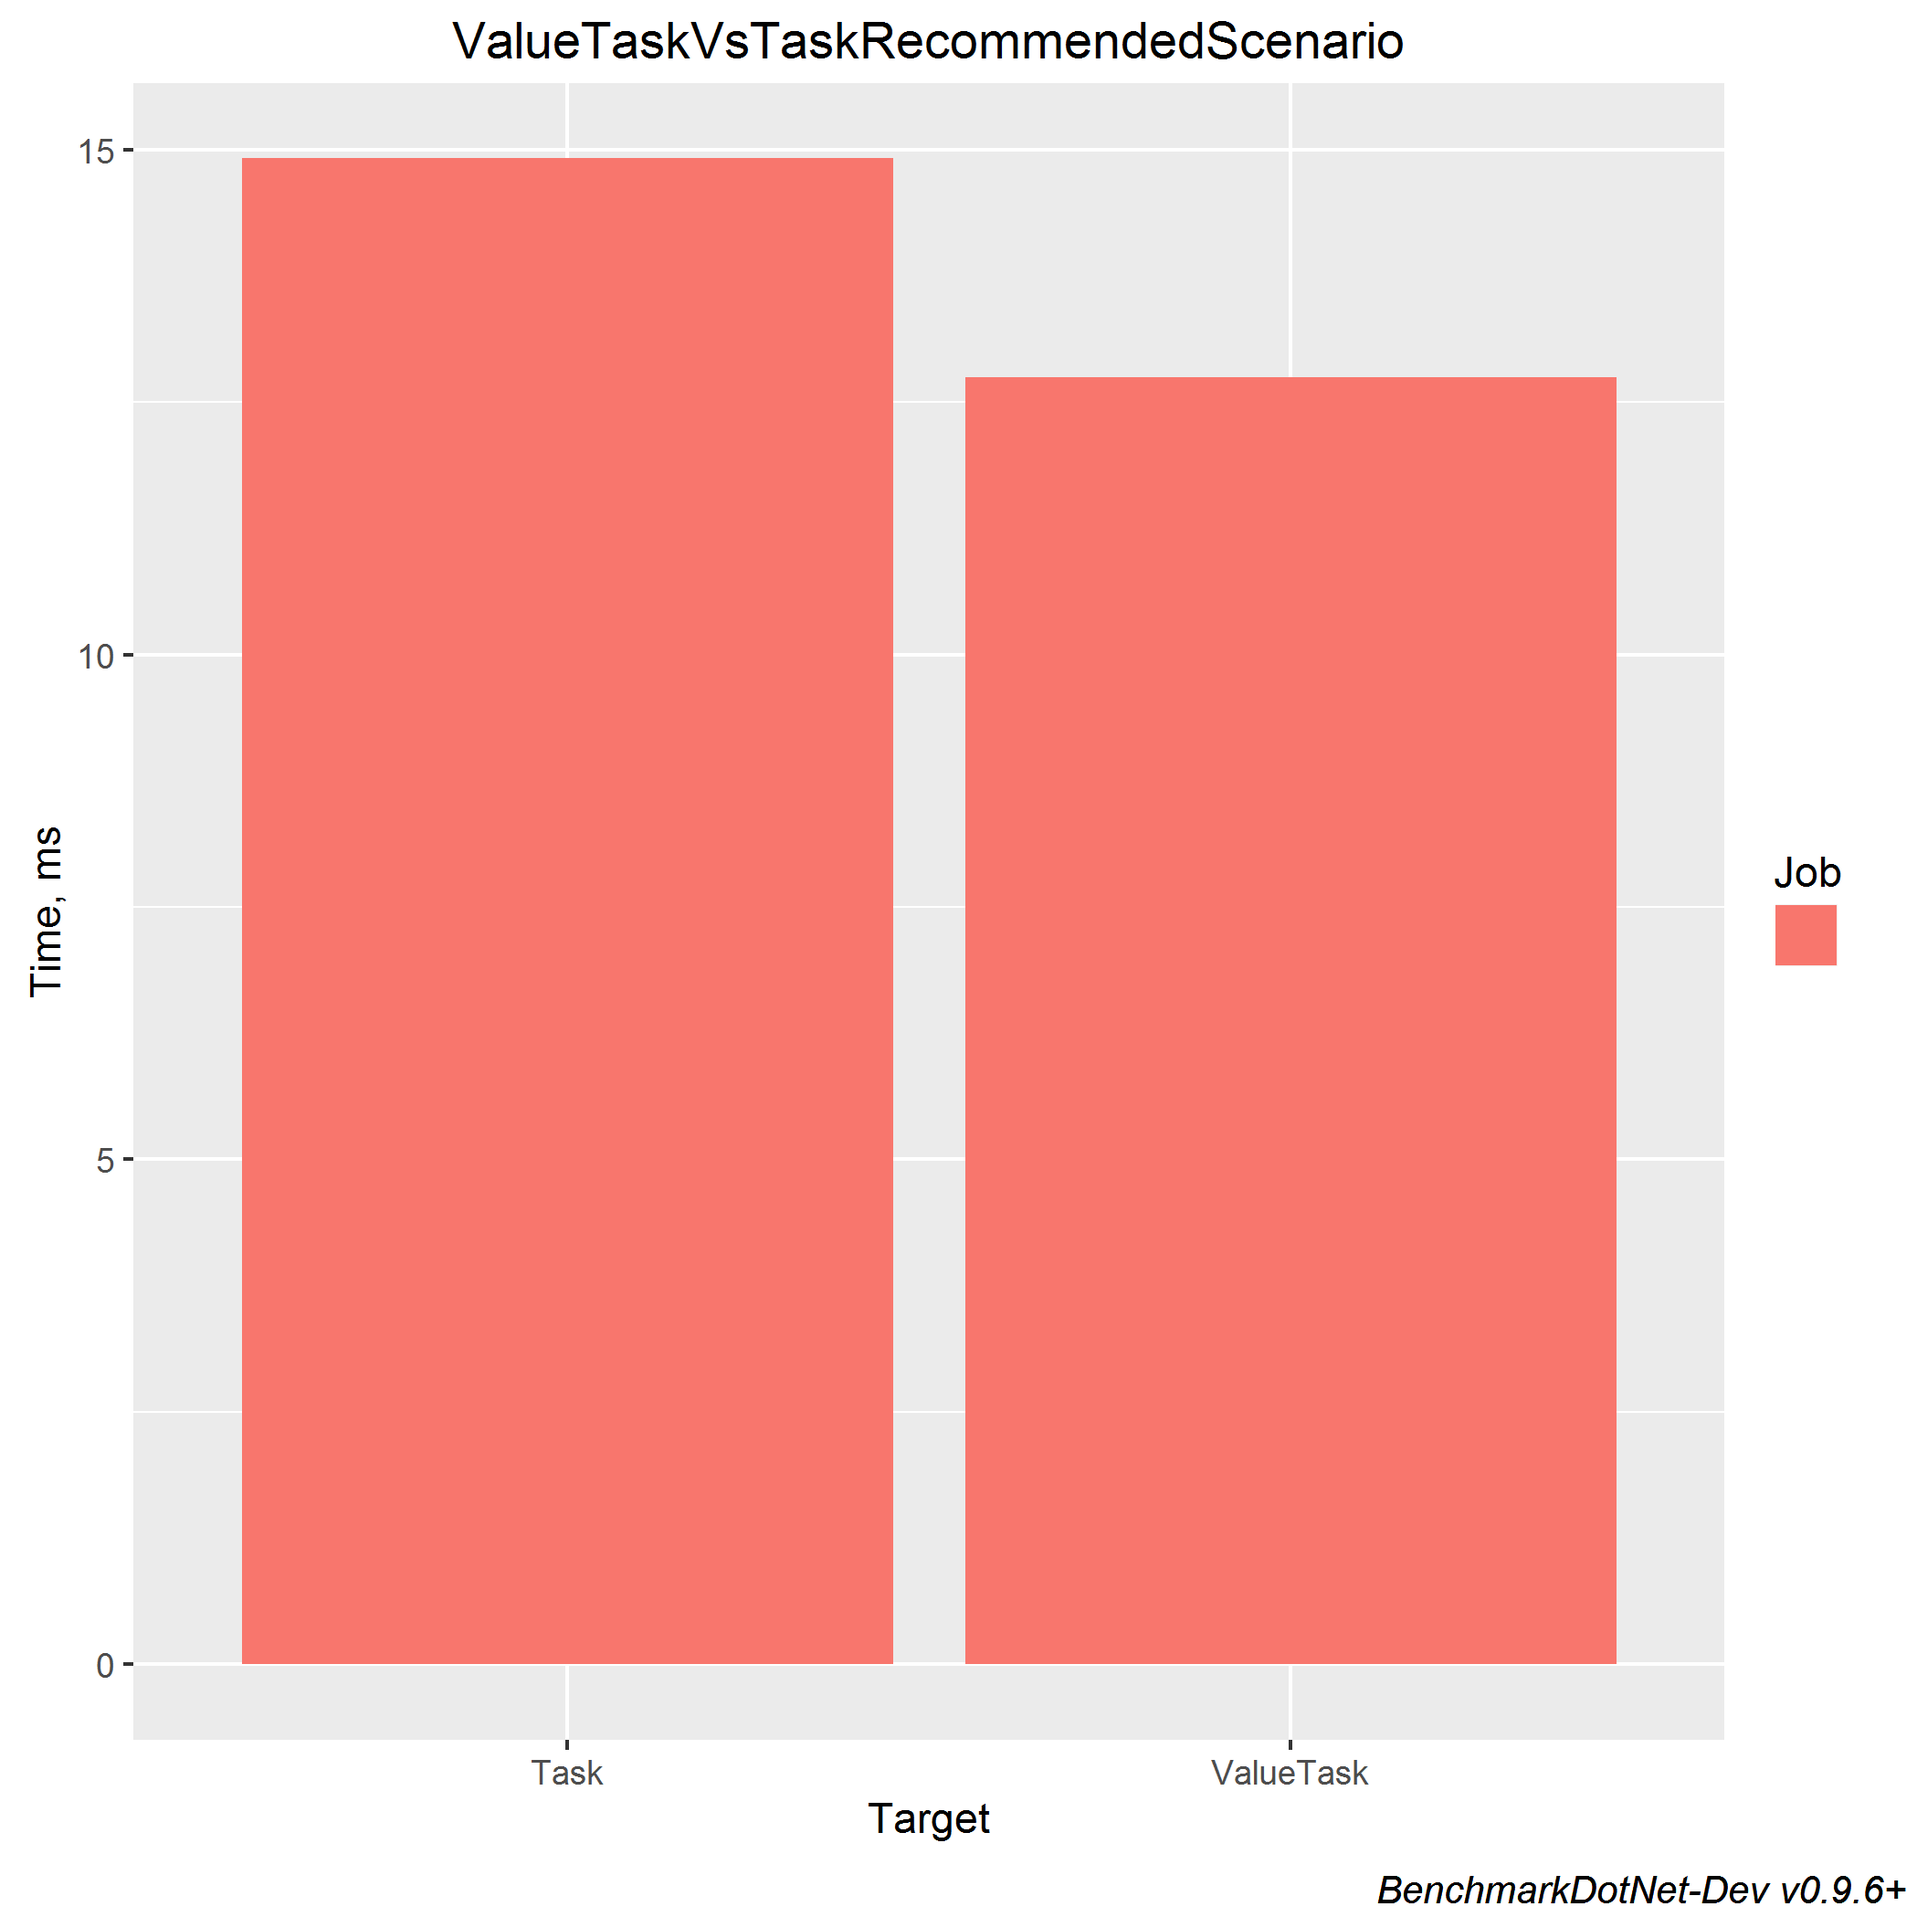
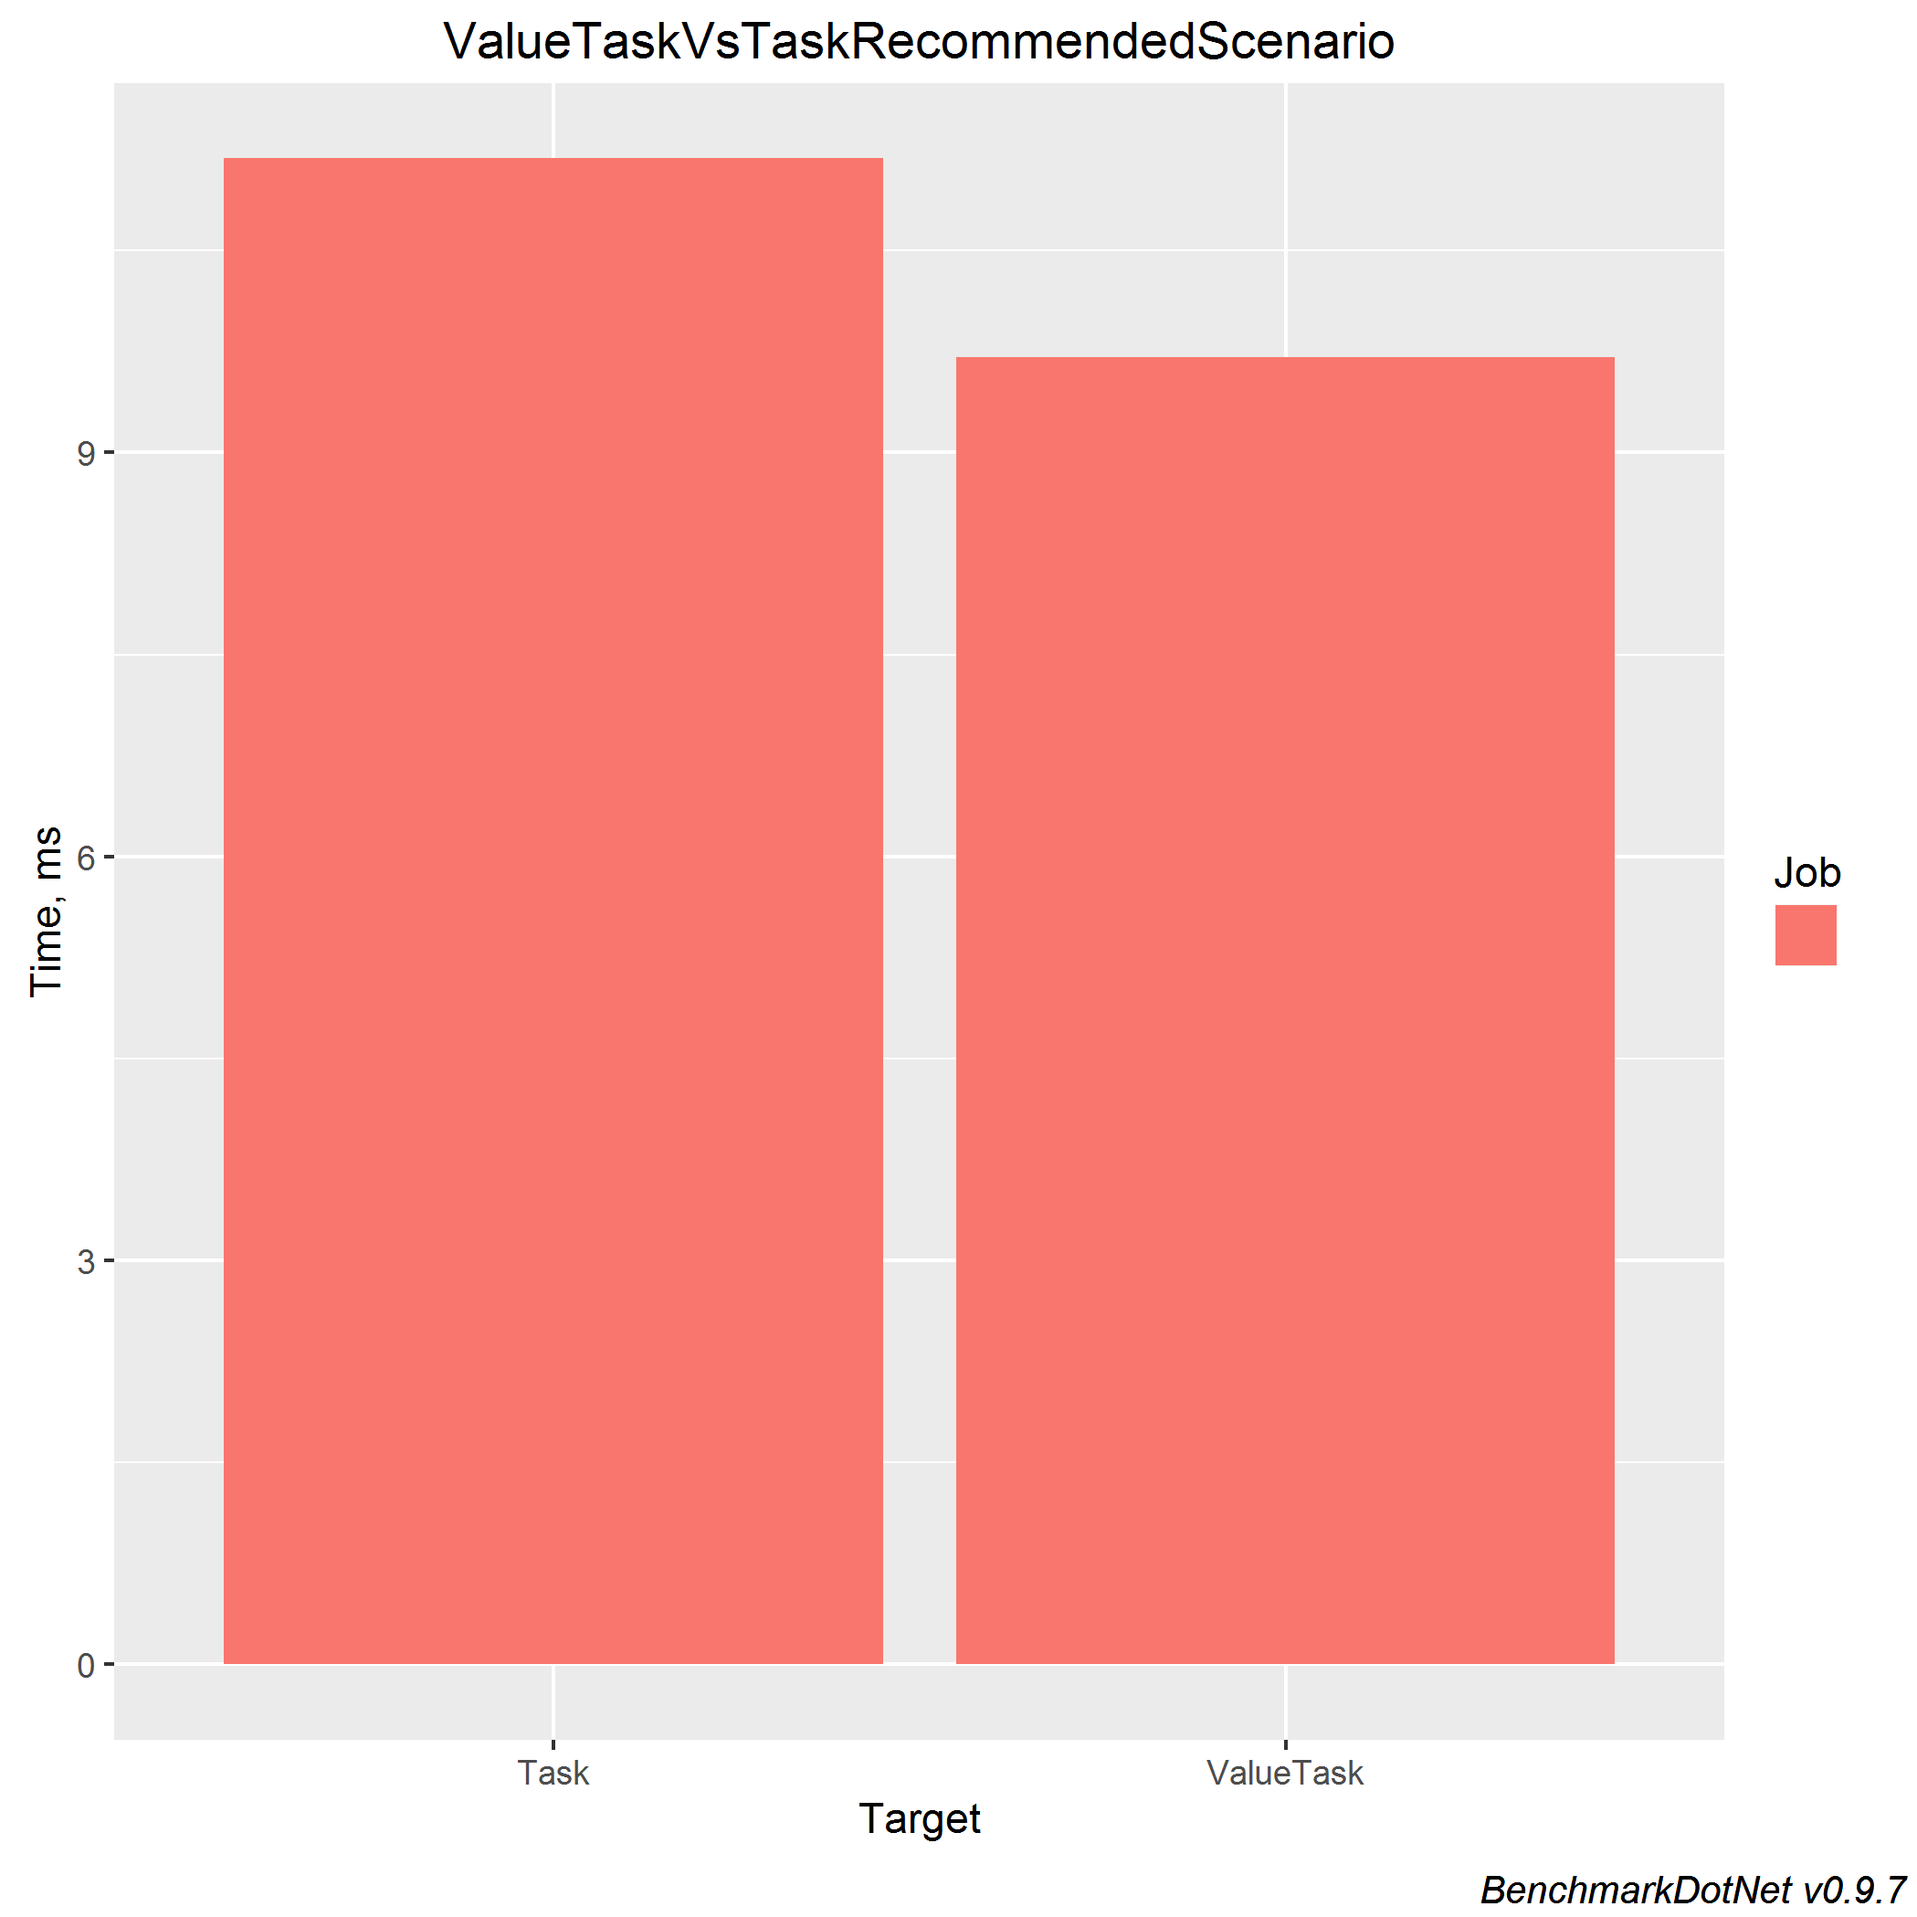
updated benchmarks

diff --git a/Benchmarks/Program.cs b/Benchmarks/Program.cs
@@ -1,9 +1,12 @@
-using BenchmarkDotNet.Configs;
+using System.Collections.Generic;
+using BenchmarkDotNet.Configs;
 using BenchmarkDotNet.Exporters;
 using BenchmarkDotNet.Jobs;
 using BenchmarkDotNet.Running;
 using BenchmarkDotNet.Columns;
 using System.Linq;
+using BenchmarkDotNet.Order;
+using BenchmarkDotNet.Reports;
 
 namespace Benchmarks
 {
@@ -19,24 +22,45 @@ namespace Benchmarks
         {
             var config = ManualConfig.CreateEmpty()
                 //.With(Job.Dry.With(Runtime.Clr).With(Platform.X64).With(Framework.V46).With(Jit.RyuJit).With(Mode.Throughput).WithWarmupCount(1).WithTargetCount(1))
-                .With(Job.Dry.With(Runtime.Core).With(Platform.X64).With(Jit.RyuJit).With(Mode.Throughput).WithWarmupCount(1).WithTargetCount(20))
+                //.With(Job.Dry.With(Runtime.Core).With(Platform.X64).With(Jit.RyuJit).With(Mode.Throughput).WithWarmupCount(1).WithTargetCount(20))
+                .With(Job.Dry.With(Runtime.Core).With(Platform.X64).With(Jit.RyuJit).With(Mode.SingleRun))
                 .With(DefaultConfig.Instance.GetLoggers().ToArray())
-                .With(PropertyColumn.Method, PropertyColumn.Runtime, PropertyColumn.Platform, PropertyColumn.Jit, StatisticColumn.Median, StatisticColumn.StdDev, BaselineDiffColumn.Scaled, BaselineDiffColumn.Delta)
+                .With(PropertyColumn.Method, PropertyColumn.Runtime, PropertyColumn.Platform, PropertyColumn.Jit, StatisticColumn.Median, StatisticColumn.StdDev, StatisticColumn.Max, StatisticColumn.Min, BaselineDiffColumn.Scaled, BaselineDiffColumn.Delta)
                 .With(MarkdownExporter.Default)
                 .With(HtmlExporter.Default)
                 .With(CsvMeasurementsExporter.Default)
                 .With(RPlotExporter.Default)
+                //.With(new SlowestToFastestOrderProviderWithoutParameters())
                 .RemoveBenchmarkFiles();
 
 #if CLASSIC
             // the parent process is Classic Desktop Clr, but the child process is CoreClr
             // so we can use memory diagnoser and attach to it and get it working for .NET Core!
-            config = config.With(new BenchmarkDotNet.Diagnostics.Windows.MemoryDiagnoser());
+            //config = config.With(new BenchmarkDotNet.Diagnostics.Windows.MemoryDiagnoser());
             //config = config.With(new BenchmarkDotNet.Diagnostics.Windows.InliningDiagnoser());
 #endif
 
             BenchmarkRunner
-                .Run<ValueTaskVsTaskCreation>(config);
+                .Run<AllocationBenchmarks>(config);
+        }
+
+        private class SlowestToFastestOrderProviderWithoutParameters : IOrderProvider
+        {
+            public IEnumerable<Benchmark> GetExecutionOrder(Benchmark[] benchmarks) => benchmarks;
+
+            public IEnumerable<Benchmark> GetSummaryOrder(Benchmark[] benchmarks, Summary summary) =>
+                from benchmark in benchmarks
+                orderby summary[benchmark]?.ResultStatistics?.Median descending
+                select benchmark;
+
+            public string GetGroupKey(Benchmark benchmark, Summary summary) => null;
+        }
+
+        private static IJob SingleRunWithoutWarmup(IJob job)
+        {
+            return job
+                .With(Mode.SingleRun)
+                .WithWarmupCount(0);
         }
     }
 }

diff --git a/Benchmarks/AllocationBenchmarks.cs b/Benchmarks/AllocationBenchmarks.cs
@@ -1,0 +1,64 @@
+using System.Runtime.CompilerServices;
+using System.Runtime.InteropServices;
+using BenchmarkDotNet.Attributes;
+
+namespace Benchmarks
+{
+    public class SmallAllocationBenchmarks : AllocationBenchmarks
+    {
+        [Params((int)1E+2, // 100 bytes
+            (int)1E+3, // 1 000 bytes = 1 KB
+            (int)1E+4, // 10 000 bytes = 10 KB
+            (int)1E+5)] // 100 000 bytes = 100 KB
+        public override int Bytes { get; set; }
+
+        [Benchmark(Description = "stackalloc")]
+        public unsafe void AllocateWithStackalloc()
+        {
+            var array = stackalloc byte[Bytes];
+            Blackhole(array);
+        }
+    }
+
+    public class BigAllocationBenchmarks : AllocationBenchmarks
+    {
+        [Params((int)1E+6, // 1 000 000 bytes = 1 MB
+            (int)1E+7, // 10 000 000 bytes = 10 MB
+            (int)1E+8)] // 100 000 000 bytes = 100 MB
+        public override int Bytes { get; set; }
+    }
+
+    public class AllocationBenchmarks
+    {
+        public virtual int Bytes { get; set; }
+
+        [Benchmark(Baseline = true, Description = "new")]
+        public void Allocate()
+        {
+            var array = new byte[Bytes];
+            Blackhole(array);
+        }
+
+        [Benchmark(Description = "Marshal")]
+        public void AllocateWithMarshall()
+        {
+            var arrayPointer = Marshal.AllocHGlobal(Bytes);
+            Blackhole(arrayPointer);
+
+            // I am NOT freeing the memory on Purpose
+            // why? because otherwise every other benchmark run will get the same block of memory 
+            // that was returned for the warmup run, and it would show that Marshall is 100x faster than new
+            // Marshal.FreeHGlobal(arrayPointer);
+        }
+
+        [MethodImpl(MethodImplOptions.NoInlining)]
+        private void Blackhole<T>(T input)
+        {
+        }
+
+        [MethodImpl(MethodImplOptions.NoInlining)]
+        protected unsafe void Blackhole(byte* input)
+        {
+        }
+    }
+}

diff --git a/Benchmarks/PoolsBenchmarks.cs b/Benchmarks/PoolsBenchmarks.cs
@@ -1,10 +1,17 @@
 using System.Buffers;
+using System.Collections.Generic;
 using System.Runtime.CompilerServices;
 using System.Runtime.InteropServices;
 using BenchmarkDotNet.Attributes;
+using BenchmarkDotNet.Configs;
+using BenchmarkDotNet.Order;
+using BenchmarkDotNet.Reports;
+using BenchmarkDotNet.Running;
+using System.Linq;
 
 namespace Benchmarks
 {
+    //[Config(typeof(PoolsBenchmarksConfig))]
     public class PoolsBenchmarks
     {
         //[Params((int)1E+2, // 100 bytes
@@ -14,7 +21,7 @@ namespace Benchmarks
         //    (int)1E+6, // 1 000 000 bytes = 1 MB
         //    (int)1E+7, // 10 000 000 bytes = 10 MB
         //    (int)1E+8)] // 100 000 000 bytes = 100 MB
-        public int Bytes = 1000000;
+        public int Bytes = 10000000 ;
 
         private ArrayPool<byte> _dedicatedManagedPool;
 
@@ -92,6 +99,30 @@ namespace Benchmarks
         [MethodImpl(MethodImplOptions.NoInlining)]
         private unsafe void Blackhole(byte* input)
         {
+        }
+    }
+
+    internal class PoolsBenchmarksConfig : ManualConfig
+    {
+        public PoolsBenchmarksConfig()
+        {
+            Set(new SlowestToFastestOrderProvider());
+        }
+
+        private class SlowestToFastestOrderProvider : IOrderProvider
+        {
+            public IEnumerable<Benchmark> GetExecutionOrder(Benchmark[] benchmarks) =>
+                from benchmark in benchmarks
+                orderby benchmark.Parameters["Bytes"] descending,
+                        benchmark.Target.MethodTitle
+                select benchmark;
+
+            public IEnumerable<Benchmark> GetSummaryOrder(Benchmark[] benchmarks, Summary summary) =>
+                from benchmark in benchmarks
+                orderby summary[benchmark]?.ResultStatistics?.Median descending
+                select benchmark;
+
+            public string GetGroupKey(Benchmark benchmark, Summary summary) => null;
         }
     }
 }

diff --git a/Benchmarks/SubslicesBenchmarks.cs b/Benchmarks/SubslicesBenchmarks.cs
@@ -1,0 +1,23 @@
+using System;
+using System.Text;
+using BenchmarkDotNet.Attributes;
+
+namespace Benchmarks
+{
+    public class SubslicesBenchmarks
+    {
+        const string Text = ".NET Core: Performance Storm!";
+
+        [Benchmark(Baseline = true, Description = "String.Substring")]
+        public string StringSubstring()
+        {
+            return Text.Substring(startIndex: 0, length: 9);
+        }
+
+        [Benchmark(Description = "Subslice")]
+        public ReadOnlySpan<char> StringSlice()
+        {
+            return Text.Slice(start: 0, length: 9);
+        }
+    }
+}
